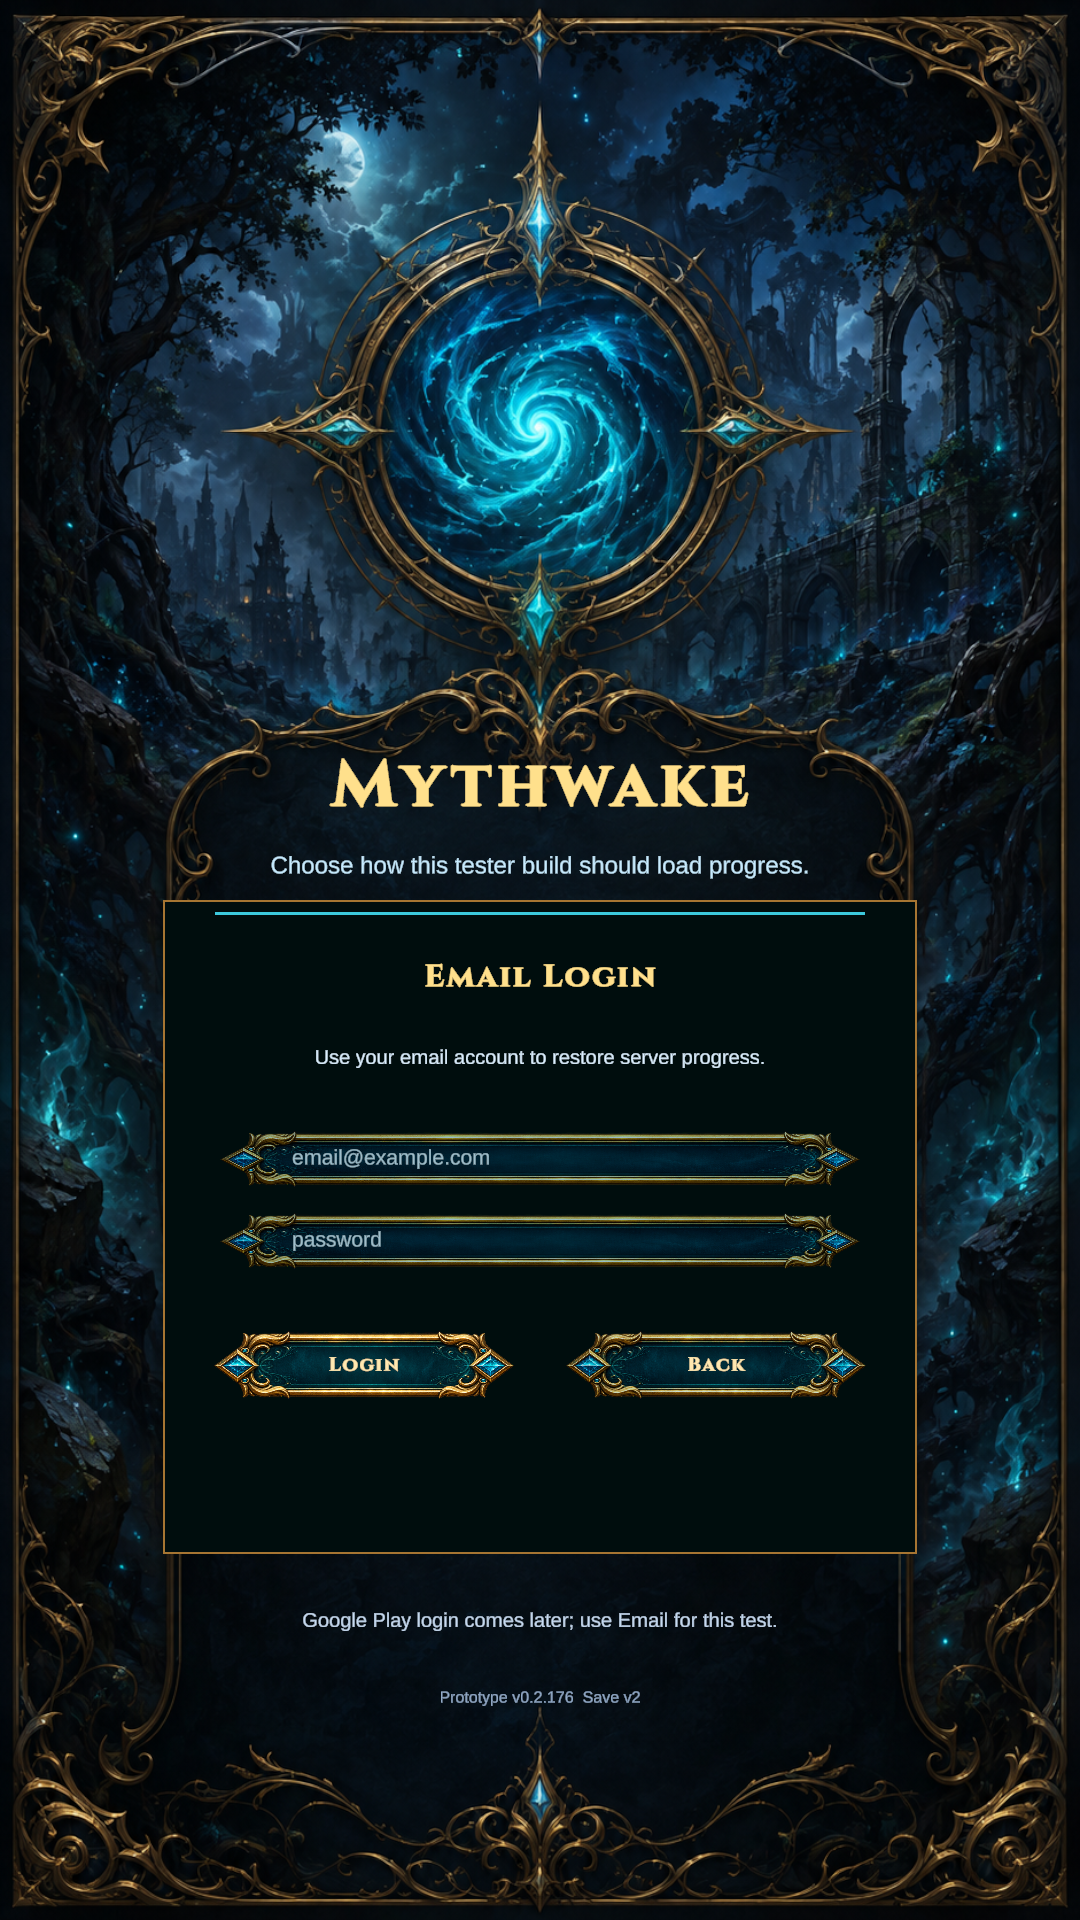
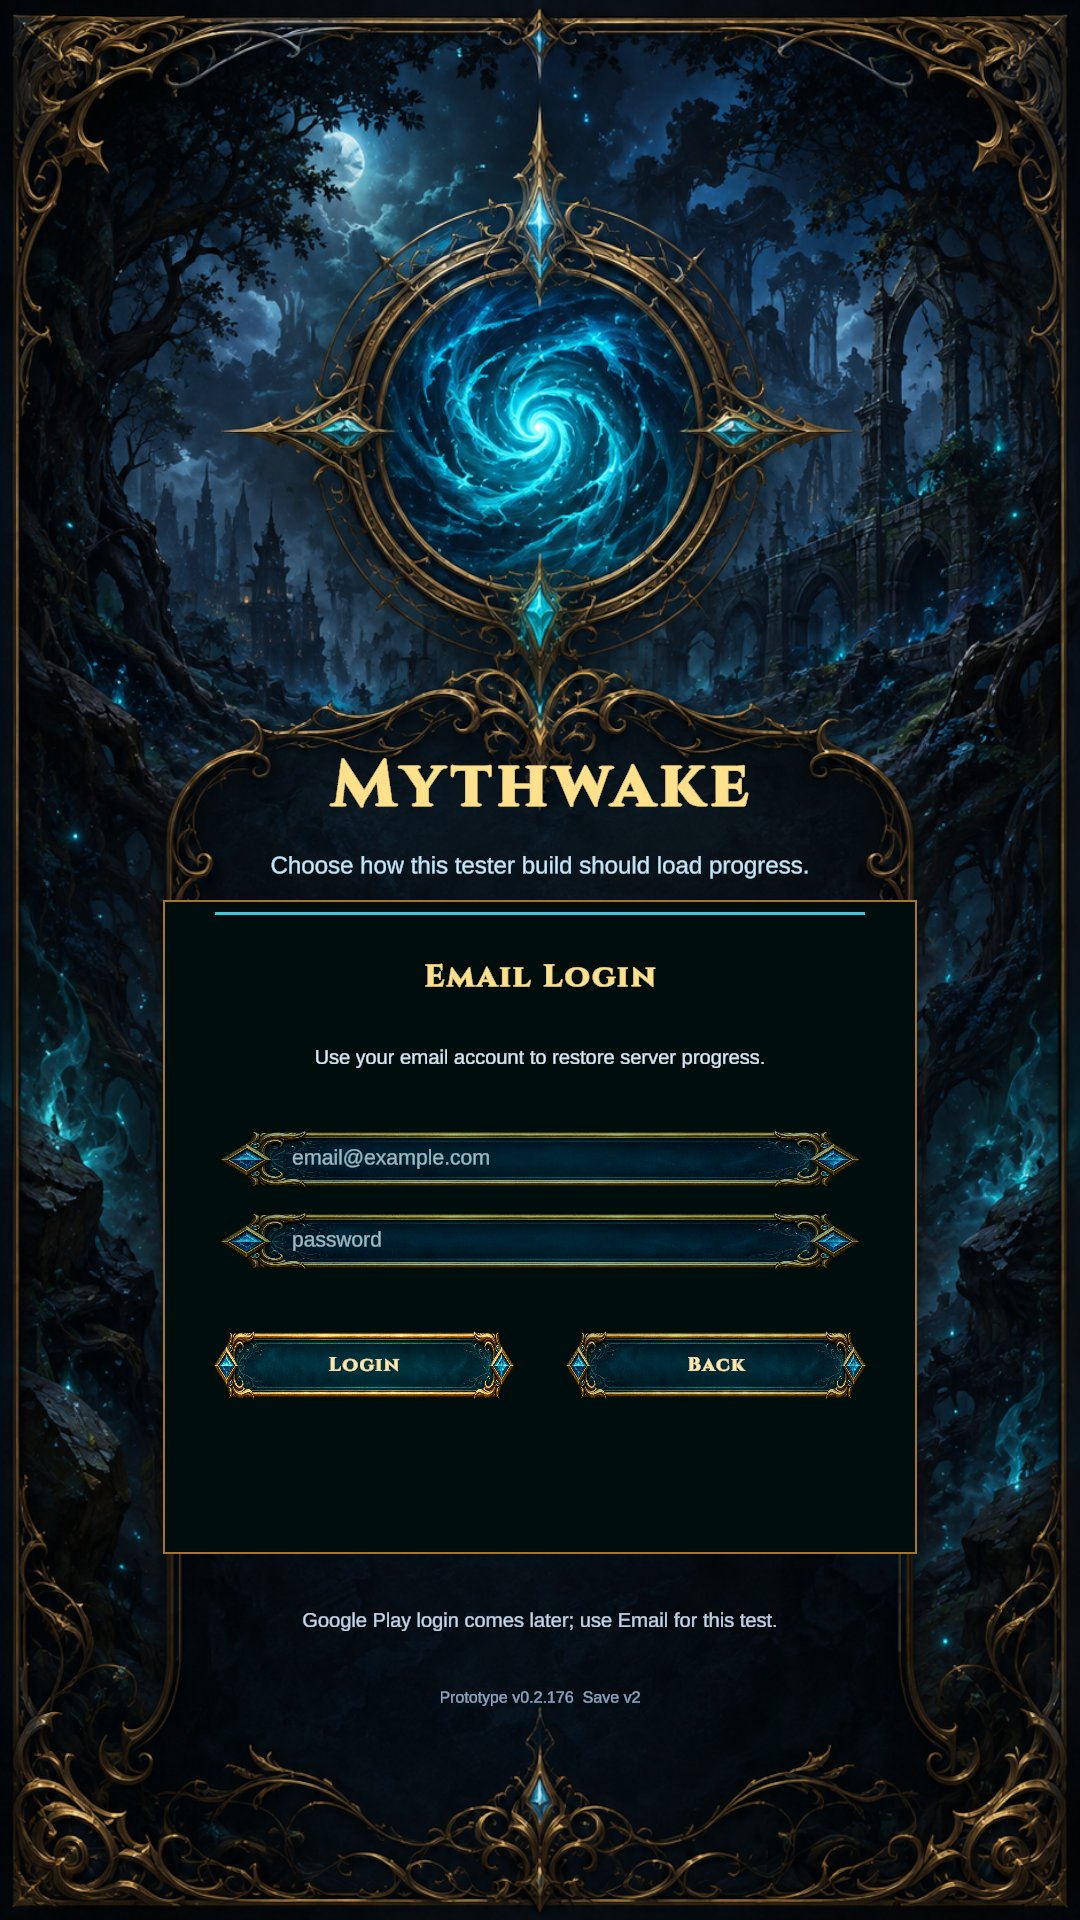
Fix login button artwork in Android builds

Changed region(s): [[0.1833, 0.5625, 0.7944, 0.75]]

diff --git a/Assets/_Mythwake/Scripts/MythwakeLoginUI.cs b/Assets/_Mythwake/Scripts/MythwakeLoginUI.cs
@@ -6,7 +6,7 @@ using UnityEngine.UI;
 public static class MythwakeLoginUI
 {
     private static TMP_FontAsset headingFont;
-    private static Sprite buttonSprite;
+    private static Texture2D buttonTexture;
     public static TMP_FontAsset HeadingFont
     {
         get
@@ -66,8 +66,9 @@ public static class MythwakeLoginUI
 
     public static void StyleButton(Button button, bool primary)
     {
-        ApplyLoginButton(button.GetComponent<Image>());
-        button.GetComponent<Image>().color = primary ? Color.white : new Color(.8f, .88f, .92f);
+        var artwork = ApplyLoginButton(button.GetComponent<Image>());
+        artwork.color = primary ? Color.white : new Color(.8f, .88f, .92f);
+        button.targetGraphic = artwork;
         var colors = button.colors;
         colors.normalColor = Color.white;
         colors.highlightedColor = new Color(1f, .94f, .76f);
@@ -84,8 +85,8 @@ public static class MythwakeLoginUI
 
     public static void StyleInput(TMP_InputField input)
     {
-        ApplyLoginButton(input.GetComponent<Image>());
-        input.GetComponent<Image>().color = new Color(.6f, .75f, .85f);
+        var artwork = ApplyLoginButton(input.GetComponent<Image>());
+        artwork.color = new Color(.6f, .75f, .85f);
         input.textComponent.color = new Color(.9f, .96f, 1f);
         if (input.placeholder is TMP_Text placeholder) placeholder.color = new Color(.62f, .75f, .8f);
         if (input.textViewport != null)
@@ -95,19 +96,38 @@ public static class MythwakeLoginUI
         }
     }
 
-    private static void ApplyLoginButton(Image image)
+    private static RawImage ApplyLoginButton(Image image)
     {
-        if (buttonSprite == null)
+        if (buttonTexture == null)
         {
-            var texture = Resources.Load<Texture2D>("Mythwake/UI/Login/login_button");
-            if (texture == null) return;
-            // Slice the painted button out of the transparent source canvas.
-            var x = texture.width / 2172f;
-            var y = texture.height / 724f;
-            buttonSprite = Sprite.Create(texture, new Rect(8*x, (724-522)*y, 2156*x, 340*y), new Vector2(.5f, .5f), 100, 0, SpriteMeshType.FullRect, new Vector4(290*x, 55*y, 290*x, 55*y));
+            buttonTexture = Resources.Load<Texture2D>("Mythwake/UI/Login/login_button");
+            if (buttonTexture == null)
+                throw new MissingReferenceException("Mythwake login button texture is missing from Resources.");
         }
-        image.sprite = buttonSprite;
-        image.type = Image.Type.Sliced;
-        image.pixelsPerUnitMultiplier = 3.6f;
+
+        // RawImage consumes the packed texture directly in Android players. The
+        // former runtime Sprite.Create path could fall back to the brown default
+        // button when Unity imported this file as a multi-sprite texture.
+        var artwork = image.transform.Find("Login Button Artwork")?.GetComponent<RawImage>();
+        if (artwork == null)
+        {
+            var artworkObject = new GameObject("Login Button Artwork", typeof(RectTransform), typeof(CanvasRenderer), typeof(RawImage));
+            artworkObject.transform.SetParent(image.transform, false);
+            artwork = artworkObject.GetComponent<RawImage>();
+            var rect = artwork.rectTransform;
+            rect.anchorMin = Vector2.zero;
+            rect.anchorMax = Vector2.one;
+            rect.offsetMin = Vector2.zero;
+            rect.offsetMax = Vector2.zero;
+            artwork.transform.SetAsFirstSibling();
+        }
+
+        artwork.texture = buttonTexture;
+        artwork.uvRect = new Rect(8f / 2172f, 202f / 724f, 2156f / 2172f, 340f / 724f);
+        artwork.raycastTarget = true;
+        image.sprite = null;
+        image.color = Color.clear;
+        image.raycastTarget = false;
+        return artwork;
     }
 }

diff --git a/Assets/_Mythwake/Editor/LoginShopPresentationValidation.cs b/Assets/_Mythwake/Editor/LoginShopPresentationValidation.cs
@@ -28,6 +28,10 @@ public static class LoginShopPresentationValidation
             var output = Path.GetFullPath("docs/screenshots/login-shop");
             Directory.CreateDirectory(output);
             Call(controller, "ShowAccountStartScreen", new object[] { null });
+            AssertLoginButtonArtwork(controller, "accountStartContinueButton");
+            AssertLoginButtonArtwork(controller, "accountStartEmailLoginButton");
+            AssertLoginButtonArtwork(controller, "accountStartEmailRegisterButton");
+            AssertLoginButtonArtwork(controller, "accountStartGuestButton");
             Capture(canvas, Path.Combine(output, "login.png"));
             Field<Button>(controller, "accountStartEmailLoginButton").onClick.Invoke();
             Capture(canvas, Path.Combine(output, "email-login.png"));
@@ -62,6 +66,13 @@ public static class LoginShopPresentationValidation
 
     private static T Field<T>(object owner, string name) => (T)owner.GetType().GetField(name, Flags).GetValue(owner);
     private static void Call(object owner, string name, params object[] args) => owner.GetType().GetMethod(name, Flags).Invoke(owner, args);
+    private static void AssertLoginButtonArtwork(object controller, string fieldName)
+    {
+        var button = Field<Button>(controller, fieldName);
+        var artwork = button.transform.Find("Login Button Artwork")?.GetComponent<RawImage>();
+        if (artwork == null || artwork.texture == null || button.targetGraphic != artwork)
+            throw new InvalidOperationException(fieldName + " should use the packed login artwork as its live target graphic.");
+    }
     private static void Capture(Canvas canvas, string path)
     {
         Canvas.ForceUpdateCanvases();

diff --git a/docs/LOGIN_SHOP_UI.md b/docs/LOGIN_SHOP_UI.md
@@ -10,8 +10,9 @@ design into the available portrait area, keeping artwork and controls together.
 - `Assets/_Mythwake/Resources/Mythwake/UI/Login/login_background.png`: three
   runtime UV slices, design rows 0–720, 720–1640, and 1640–1920.
 - `Assets/_Mythwake/Resources/Mythwake/UI/Login/login_button.png`: transparent
-  source; runtime sprite crops the button and uses nine-slice borders to retain
-  the gold ornamentation at different control widths.
+  source loaded as a regular texture. Runtime `RawImage` controls crop the
+  painted button and remain the live click targets. This avoids Android falling
+  back to the brown default button when a generated multi-sprite cannot load.
 - Headings use [Cinzel Bold](https://github.com/google-fonts-bower/cinzel-bower),
   with its OFL license bundled beside the font in `UI/Fonts/OFL.txt`.
 
